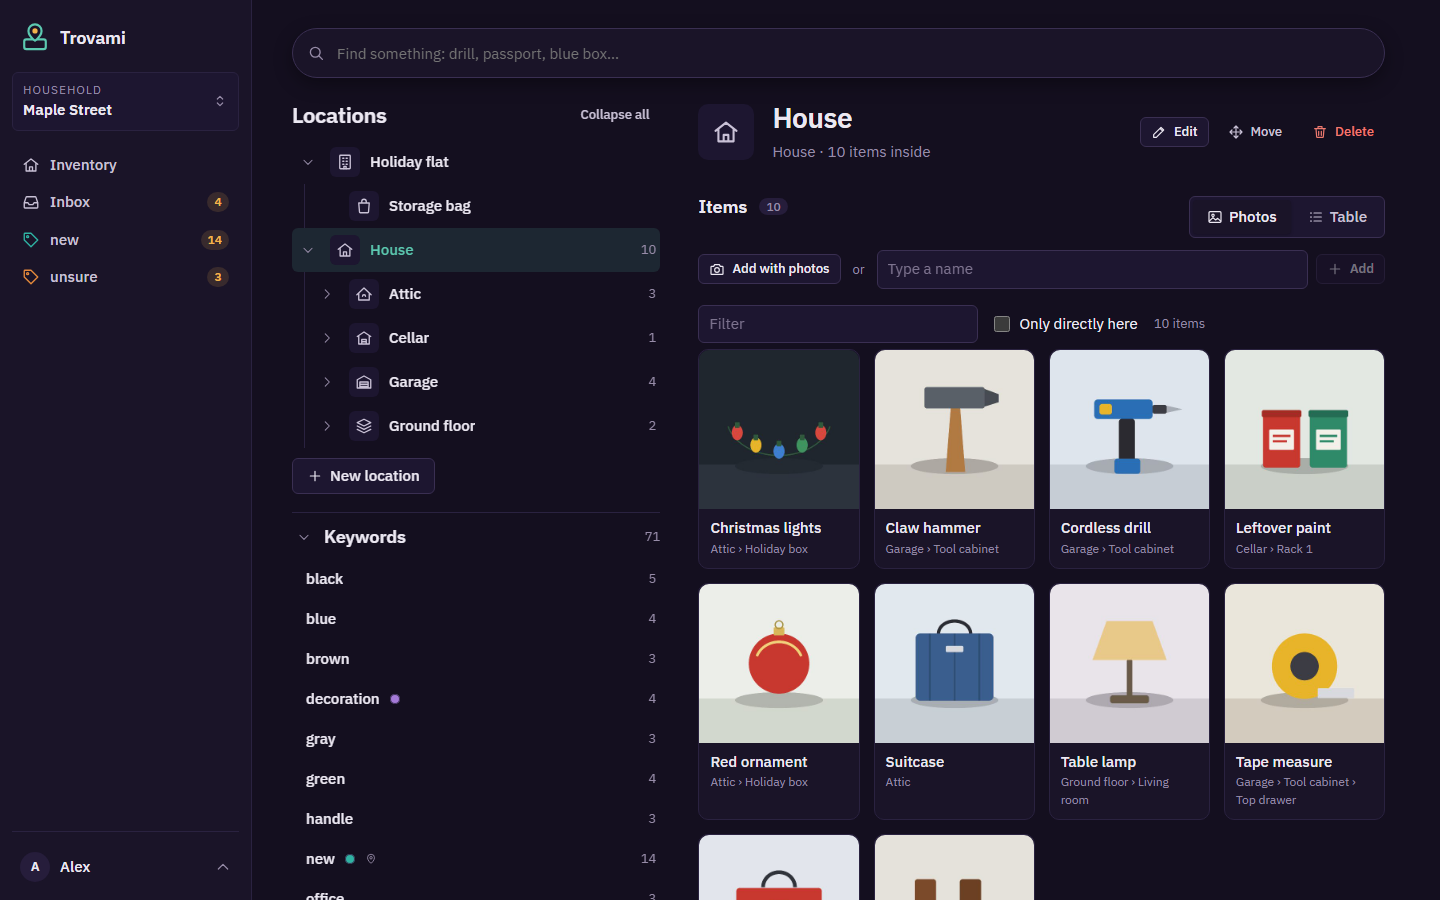
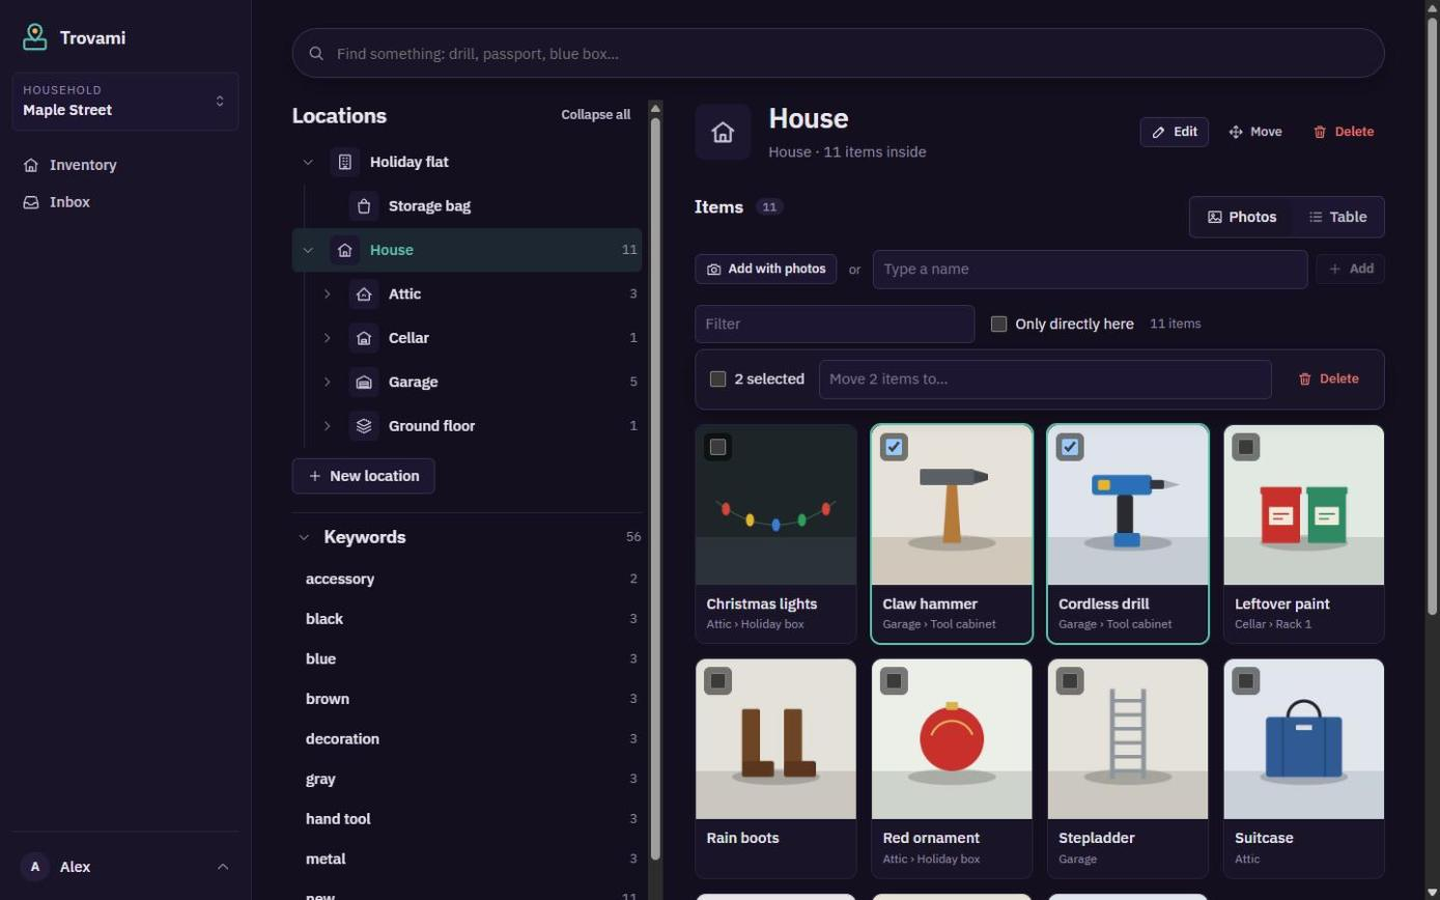
Prepare the 1.2.0 release: bulk actions and faster location work
Adding several locations and sorting items meant too much navigating: every
new location jumped away from where you were, the kind had to be picked again
each time, and only the Inbox could act on several items at once.

- Adding a location stays on the page and opens the way to it in the tree.
- The form starts with the kind used last, except after a household's first
  location, so what goes inside a house isn't suggested to be a house too.
- Location and keyword pages can move or delete several items. Only rows the
  filter shows count, so nothing hidden is moved or deleted.
- Inventory reopens the last picked location, per browser and household.
- The item page steps through items directly at the same location.
- SMTP, backup and AI key fields use type=password with new-password, because
  Bitwarden skips those for login fill and treats masked text fields named
  "password" as passwords.
- The location picker's caller now decides when to offer the Inbox, since a
  bulk move has no single current location.
- Anthropic 13.5.0 and Markdig 1.6.0; two README screenshots retaken.

diff --git a/src/Trovami.Web/wwwroot/css/app.css b/src/Trovami.Web/wwwroot/css/app.css
@@ -683,9 +683,6 @@ td.num, th.num, .num.right { text-align: right; }
 
 /* ---------- Dialogs ---------- */
 
-/* A secret that isn't a sign-in password: looks like one, but password managers leave it alone. */
-.input-secret { -webkit-text-security: disc; }
-
 .modal-backdrop {
     position: fixed;
     inset: 0;
@@ -1097,10 +1094,10 @@ td.num, th.num, .num.right { text-align: right; }
 .keyword-chips { display: inline-flex; flex-wrap: wrap; gap: 4px; }
 .keyword-chip { padding: 0 6px; border-radius: var(--r-sm); background: var(--sheet-3); color: var(--ink-soft); font-size: var(--t-xs); line-height: 1.6; }
 .keyword-more { color: var(--pencil); font-size: var(--t-xs); line-height: 1.6; }
-/* The Inbox as a table: select box with the name, "Put it in…" last. */
-.inbox-table tr.selected td { background: var(--accent-soft); }
-.inbox-row-check { align-items: center; }
-.inbox-row-check input { margin: 0; }
+/* Item tables: select box with the name. In the Inbox, "Put it in…" last. */
+.item-table tr.selected td { background: var(--accent-soft); }
+.row-check { align-items: center; }
+.row-check input { margin: 0; }
 .inbox-put { width: 240px; }
 .item-link > :last-child { padding-bottom: 10px; }
 .naming { display: inline-flex; align-items: center; gap: 6px; color: var(--pencil); font-style: normal; }
@@ -1128,6 +1125,9 @@ td.num, th.num, .num.right { text-align: right; }
 .labels-bar .btn-primary { margin-left: auto; }
 .btn.disabled { opacity: 0.5; pointer-events: none; }
 
+.item-top { display: flex; flex-wrap: wrap; align-items: center; justify-content: space-between; gap: 8px 16px; margin-bottom: 16px; }
+.item-top .crumbs { margin-bottom: 0; }
+.item-pager { display: flex; align-items: center; gap: 4px; }
 .item-page { display: grid; grid-template-columns: minmax(0, 1fr) minmax(0, 1fr); gap: 28px; align-items: start; }
 .item-big-photo { display: grid; gap: 12px; }
 .item-big-photo img { display: block; width: 100%; max-height: 70vh; object-fit: contain; border-radius: var(--r-lg); background: var(--sheet-2); }

diff --git a/src/Trovami.Core/Services/ItemService.cs b/src/Trovami.Core/Services/ItemService.cs
@@ -21,6 +21,10 @@ public sealed record ItemView(
 // What the phone (or the web app's add form) sends for a new item. Id is chosen by the client.
 public sealed record ItemCreate(Guid Id, Guid? LocationId, string? Name, string? Notes, int Quantity = 1, bool PhotoExpected = false);
 
+// The items directly at the same location as one item, or in the Inbox with it: the short codes of the
+// ones before and after it in that list's order, and where it is in the list (from 1).
+public sealed record ItemNeighbors(string? Previous, string? Next, int Position, int Count);
+
 public sealed record KeywordCount(string Keyword, int Items, string? Color = null, bool Pinned = false);
 
 public sealed record SearchResult(IReadOnlyList<ItemView> Items, IReadOnlyList<LocationNode> Locations, LocationTree Tree);
@@ -65,6 +69,25 @@ public sealed class ItemService(IDbContextFactory<AppDbContext> dbFactory, Photo
             .Where(i => i.HouseholdId == householdId && i.LocationId == null)
             .OrderByDescending(i => i.CreatedAt).ToListAsync(ct);
         return rows.Select(i => View(i, tree)).ToList();
+    }
+
+    // Not the items in locations below it. The order is the location's list (A to Z) or the Inbox's.
+    public async Task<ItemNeighbors> NeighborsAsync(string userId, Guid id, CancellationToken ct = default)
+    {
+        await using var db = await dbFactory.CreateDbContextAsync(ct);
+        var item = await db.Items.AsNoTracking().FirstOrDefaultAsync(i => i.Id == id, ct)
+            ?? throw new NotFoundException("That item no longer exists.");
+        await Access.RequireMemberAsync(db, userId, item.HouseholdId, ct);
+        var rows = await db.Items.AsNoTracking()
+            .Where(i => i.HouseholdId == item.HouseholdId && i.LocationId == item.LocationId)
+            .Select(i => new { i.Id, i.ShortCode, i.Name, i.CreatedAt })
+            .ToListAsync(ct);
+        var ordered = (item.LocationId is null
+                ? rows.OrderByDescending(i => i.CreatedAt)
+                : rows.OrderBy(i => i.Name ?? ItemView.UnnamedText, StringComparer.CurrentCultureIgnoreCase).ThenByDescending(i => i.CreatedAt))
+            .ThenBy(i => i.Id).ToList();
+        var at = ordered.FindIndex(i => i.Id == id);
+        return new ItemNeighbors(at > 0 ? ordered[at - 1].ShortCode : null, at < ordered.Count - 1 ? ordered[at + 1].ShortCode : null, at + 1, ordered.Count);
     }
 
     public async Task<int> InboxCountAsync(string userId, Guid householdId, CancellationToken ct = default)
@@ -185,7 +208,7 @@ public sealed class ItemService(IDbContextFactory<AppDbContext> dbFactory, Photo
         await db.SaveChangesAsync(ct);
     }
 
-    // Moves several items at once (the Inbox's multi-select); locationId null: to the Inbox. An item
+    // Moves several items at once (multi-select in the lists); locationId null: to the Inbox. An item
     // that arrives somewhere new gets that location's keywords and keeps the ones it has.
     public async Task MoveAsync(string userId, IReadOnlyCollection<Guid> ids, Guid? locationId, CancellationToken ct = default)
     {

diff --git a/tests/Trovami.Tests/ServiceTests.cs b/tests/Trovami.Tests/ServiceTests.cs
@@ -28,6 +28,31 @@ public class ServiceTests
     }
 
     [Fact]
+    public async Task NeighborsAreTheItemsDirectlyAtTheSameLocation()
+    {
+        using var t = new TestDb();
+        var anna = await t.AddUserAsync("anna");
+        var ben = await t.AddUserAsync("ben");
+        var home = await t.Households.CreateAsync(anna, "Home");
+        var room = await t.Locations.CreateAsync(anna, home, null, "Kitchen", LocationKind.Room);
+        var drawer = await t.Locations.CreateAsync(anna, home, room, "Drawer", LocationKind.Drawer);
+        var (cup, fork, spoon, knife, loose) = (Guid.NewGuid(), Guid.NewGuid(), Guid.NewGuid(), Guid.NewGuid(), Guid.NewGuid());
+        await t.Items.CreateAsync(anna, home, new ItemCreate(spoon, room, "spoon", null));
+        await t.Items.CreateAsync(anna, home, new ItemCreate(cup, room, "Cup", null));
+        await t.Items.CreateAsync(anna, home, new ItemCreate(fork, room, "Fork", null));
+        await t.Items.CreateAsync(anna, home, new ItemCreate(knife, drawer, "Knife", null));
+        await t.Items.CreateAsync(anna, home, new ItemCreate(loose, null, "Loose", null));
+        async Task<string> Code(Guid id) => (await t.Items.GetAsync(anna, id)).ShortCode;
+
+        Assert.Equal(new ItemNeighbors(null, await Code(fork), 1, 3), await t.Items.NeighborsAsync(anna, cup));
+        Assert.Equal(new ItemNeighbors(await Code(cup), await Code(spoon), 2, 3), await t.Items.NeighborsAsync(anna, fork));
+        Assert.Equal(new ItemNeighbors(await Code(fork), null, 3, 3), await t.Items.NeighborsAsync(anna, spoon));
+        Assert.Equal(new ItemNeighbors(null, null, 1, 1), await t.Items.NeighborsAsync(anna, knife));
+        Assert.Equal(new ItemNeighbors(null, null, 1, 1), await t.Items.NeighborsAsync(anna, loose));
+        await Assert.ThrowsAsync<NotFoundException>(() => t.Items.NeighborsAsync(ben, cup));
+    }
+
+    [Fact]
     public async Task ALocationCantMoveIntoItself()
     {
         using var t = new TestDb();

diff --git a/src/Trovami.Web/Services/AppUi.cs b/src/Trovami.Web/Services/AppUi.cs
@@ -1,3 +1,4 @@
+using Trovami.Core.Models;
 using Trovami.Core.Services;
 using Trovami.Web.Components.Shared;
 
@@ -34,6 +35,9 @@ public sealed class AppUi
 
     // The last page before an item page, base-relative, for the item's Close; null after a direct link.
     public string? BeforeItem { get; internal set; }
+
+    // The kind of the last location added, the next one's default, until the page reloads.
+    public LocationKind? LastLocationKind { get; set; }
 
     // Raised after the household changed (switched, renamed, created) or the Inbox count did;
     // pages that show household data reload.

diff --git a/CHANGELOG.md b/CHANGELOG.md
@@ -1,5 +1,22 @@
 # Release notes
 
+## 1.2.0 - 2026-11-04
+
+### New
+
+- Select several items on a location's or keyword's page to move or delete them together.
+- The item page has buttons to go to the previous or next item at the same location.
+
+### Improved
+
+- After adding a location you stay where you are, with the new location visible in the tree.
+- The New location form starts with the kind you used last.
+- Inventory opens the location you last picked.
+
+### Fixed
+
+- Bitwarden no longer fills the mail server, backup and AI key passwords.
+
 ## 1.1.0 - 2026-11-04
 
 ### New
